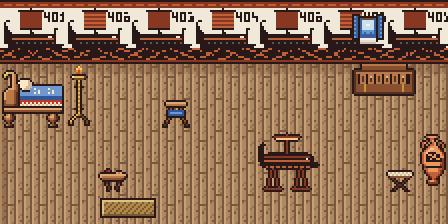
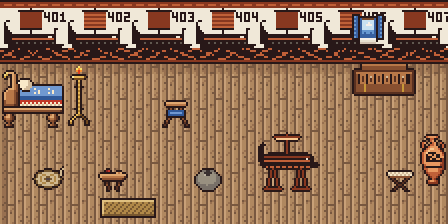
fix(map): stop the inn's heal hanging on a bow its innkeeper can't do
The heal scripts bow the healer with a frame only the healer walker has, so
any other walker hangs the game there, the whiteout respawn included. The
hall-keeper wears the healer's walker; Strophios nods, and the inn's respawn
points at a stand-in that never appears. The frieze's ship numbers are kept out
of the near-duplicate merge, which had made 402 into 406.

Changed region(s): [[0.4062, 0.75, 0.5, 0.875], [0.0625, 0.75, 0.1562, 0.8438]]

diff --git a/tools/ichor/maps/westrooms.py b/tools/ichor/maps/westrooms.py
@@ -94,12 +94,12 @@ ROOMS = {
                    ("sleep_bench_b", 13, 3), ("hydria", 13, 5), ("sleep_bench", 13, 6),
                    ("smoke", 5, 2), ("firepit", 5, 4), ("kindling", 7, 4), ("blankets", 8, 5),
                    ("hearth_kerb", 5, 6),
-                   ("table", 10, 6), ("stool", 9, 6), ("stool", 12, 6), ("bed_roll", 1, 8),
+                   ("table", 10, 6), ("stool", 9, 6), ("stool", 12, 6), ("bed_roll", 1, 2),
                    ("bed_roll", 10, 3),
                    ("honey_cakes", 9, 8), ("mat", 6, 8)],
         "spots": [
             warp([(6, 8), (7, 8)], "MAP_LEBADEIA", 0),
-            npc("the hall-keeper, at the fire (heals)", (7, 5), "south", G + "WOMAN",
+            npc("the hall-keeper, at the fire (heals)", (7, 5), "south", G + "HEALER",
                 "Lebadeia_PilgrimsHall_EventScript_Keeper", local="LOCALID_LEBADEIA_HALL_KEEPER", healer=True),
             npc("a pilgrim on a bench, under a blanket", (0, 3), "east", G + "PILGRIM_BLANKET",
                 "Lebadeia_PilgrimsHall_EventScript_BenchPilgrim", on_furniture=True),
@@ -235,6 +235,9 @@ ROOMS = {
             warp([(6, 11), (7, 11)], "MAP_KIRRHA", 0),
             npc("Strophios, behind the long table (heals)", (6, 2), "south", G + "STROPHIOS",
                 "Kirrha_Inn_EventScript_Strophios", local="LOCALID_KIRRHA_INN_STROPHIOS", healer=True),
+            npc("the whiteout heal's respawn NPC: never shown (Strophios's sprite has no bow frame)", (6, 2), "south",
+                G + "STROPHIOS", "Kirrha_Inn_EventScript_Strophios", local="LOCALID_KIRRHA_INN_RESPAWN",
+                flag="FLAG_SYS_POKEMON_GET"),
             npc("Pylades, by the bundles", (11, 2), "south", G + "PYLADES",
                 "Kirrha_Inn_EventScript_Pylades", local="LOCALID_KIRRHA_INN_PYLADES"),
             npc("Xenodike, beside Pylades (after FLAG_ICHOR_XENODIKE_CAME_DOWN)", (12, 2), "west", G + "XENODIKE",
@@ -386,7 +389,7 @@ ROOMS = {
                  ".............."],
         "stamps": [("kline", 0, 2), ("lampstand", 2, 2), ("chair_back", 5, 3), ("model_ship", 8, 4),
                    ("window", 11, 0), ("tablet_chest", 11, 2), ("amphora", 13, 4), ("stool", 12, 5),
-                   ("table_round", 3, 5), ("mat", 3, 6)],
+                   ("table_round", 3, 5), ("anchor_stone", 6, 5), ("rope_coil", 1, 5), ("mat", 3, 6)],
         "spots": [
             warp([(3, 6), (4, 6)], "MAP_AIGION", 0),
             npc("Tisamenos, reciting to the frieze", (6, 2), "north", G + "TISAMENOS",

diff --git a/tools/ichor/art/westrooms_art.py b/tools/ichor/art/westrooms_art.py
@@ -429,19 +429,33 @@ def floor_planks():
 
 
 def floor_cave(seed=0):
-    """The goatherd's cave half: the hill's own rock, worn level, with
-    beaten earth in the hollows."""
+    """The goatherd's cave half: the hill's own rock, worn into low uneven
+    plates, with beaten earth packed into the cracks between them. A periodic
+    Voronoi so it tiles."""
+    seeds = [(4, 3), (12, 6), (6, 12), (14, 14)] if not seed else [(2, 6), (10, 2), (9, 10), (15, 12)]
+
+    def owner(x, y):
+        best, bi = None, 0
+        for i, (sx, sy) in enumerate(seeds):
+            dx = min(abs(x - sx), 16 - abs(x - sx))
+            dy = min(abs(y - sy), 16 - abs(y - sy))
+            d = dx * dx + dy * dy * 1.4
+            if best is None or d < best:
+                best, bi = d, i
+        return bi
+    own = [[owner(x, y) for x in range(16)] for y in range(16)]
     g = [["3"] * 16 for _ in range(16)]
     for y in range(16):
         for x in range(16):
-            n = noise(x // 4, y // 4, 60 + seed)
-            n2 = noise(x, y, 61 + seed)
-            if n < 0.35:
-                g[y][x] = "E" if n2 < 0.85 else "e"
+            o = own[y][x]
+            if own[y][(x + 1) % 16] != o or own[(y + 1) % 16][x] != o:
+                g[y][x] = "E" if noise(x, y, 62 + seed) < 0.7 else "e"
+            elif own[(y - 1) % 16][x] != o or own[y][(x - 1) % 16] != o:
+                g[y][x] = "4"
             else:
-                g[y][x] = "3" if n2 < 0.8 else "4"
-            if n2 > 0.97:
-                g[y][x] = "2"
+                g[y][x] = "3" if o % 2 else ("3" if noise(x, y, 63 + seed) < 0.6 else "4")
+                if noise(x, y, 64 + seed) < 0.04:
+                    g[y][x] = "2"
     return rows_to_grid("stone", g)
 
 

diff --git a/design/phase3/ROOMS_west.md b/design/phase3/ROOMS_west.md
@@ -21,13 +21,108 @@ Act II batch 2's nine rooms (beats 35–37): Lebadeia's pilgrims' hall, Herkyna'
 tools/ichor/tests/act2_westrooms.sh                                  # after make
 ```
 
-The driver writes each room's `map.bin` and `border.bin`, its `layouts.json` entry, and its `map.json` events and music from the spots listed with the room, so the coordinates live in one place. `scripts.pory` is written by hand. The run checks that every warp, person and readable thing is reachable from the door and read from the tile in front of it, that each healer can be talked to only across the counter in front of them (so the heal's balls land where they're drawn for), that every 8x8 tile takes its colors from one palette, and that each room renders from the compiled tiles over `gTileset_Oikos` exactly as composed.
+The driver writes each room's `map.bin` and `border.bin`, its `layouts.json` entry, and its `map.json` events and music from the spots listed with the room, so the coordinates live in one place. `scripts.pory` is written by hand. The run checks that every warp, person and readable thing is reachable from the door and read from the tile in front of it, that each healer can be talked to only across the counter in front of them (so the heal's balls land where they're drawn for), that every 8x8 tile takes its colors from one palette, and that each room renders from the compiled tiles over `gTileset_Oikos` exactly as composed. It also writes the one-sheet overview, `design/phase3/img/west_interiors_overview.png`.
+
+![The nine rooms](img/west_interiors_overview.png)
+
+## Three secondaries, grouped by what the rooms share
+
+Nine rooms of new art come to about 1,200 tiles, and a secondary holds 504 (door animations own 504-511). Grouping by town put Lebadeia's three rooms at 483 with no room to grow, so the rooms are grouped by the art they share instead, as batch 1's were:
+
+| Secondary | Directory | Rooms | Why together |
+|---|---|---|---|
+| `gTileset_WestStone` | `west_stone` | Lebadeia's pilgrims' hall, the mason's house | the living rock, the rough-laid rubble, cut stone and its dust, votive tablets |
+| `gTileset_WestHarbor` | `west_harbor` | Kirrha's inn, Agora stall, the muleteer's and Thyia's | harbor whitewash with the rope moulding, sailcloth, boats and rope, straw and hay, brooms |
+| `gTileset_WestHomes` | `west_homes` | Herkyna's river house, Tisamenos's and Helike's houses | the three households by the water: river pebbles and reeds, the ship frieze, the hillside |
+
+All three are on the `oikos` primary, use only their own tiles and palettes 6-12, and are compiled by the same script against an empty stand-in primary. The near-duplicate merge (tiles within 2 px of another are redrawn as it) skips two walls whose small differences are the point: the frieze's ship numbers (merged, 402 became 406) and the mason's loose stone.
+
+## Palettes
+
+Seven, shared by all three sets, all multiples of 8 and none an aethos color. Four are oikia's, so its floors and a few of its pieces (the kline, stools, tables, amphorae, pithos, hearth and soot, window, chest, lampstand, herbs, the doormat) are reused exactly as drawn.
+
+| Palette | Colors for |
+|---|---|
+| wall | oikia's plaster, beams, red-ochre dado, shutter blue and sky; Kirrha's sea-blue dado and rope moulding, Lebadeia's river-wave band |
+| floor | oikia's terracotta, boards and limestone; packed earth, the mason's stone dust and Tisamenos's ship's planking are drawn from it |
+| wood | furniture, linen and sailcloth, red and blue cloth, bronze fittings; votive tablets, bundles, the painted sign |
+| clay | pottery, the hearth's stone and fire, soot, white slip; the fire pit and kerb, the black-figure ship frieze, clay votives |
+| nature | leaves, wicker, straw and hay, rope and wool, and three mule greys (in place of oikia's fish silvers) |
+| bronze | oikia's bronze, flame, water and marble: the mill-race and the well, the goat bells, the ship's lantern |
+| stone | rough stone and living rock, timber and tar, lichen, lamp glow: the rock walls, rubble, the shed's tarred planks, the goat pen |
+
+## The looks
+
+- **Lebadeia:** whitewash over a band of Herkyna's river in blue running waves, on a footing of grey Parnassian limestone. The pilgrims' hall is cut into the hill: its back wall is bare rock, every inch of it hung with wooden tablets. The mason's back wall is his own rough-laid rubble.
+- **Kirrha:** harbor whitewash under a tarred, rope-lashed beam, a twisted rope moulding over a sea-blue dado. The stall is a fishing shed of tarred planks; the muleteer's stable end is the underside of his hay loft.
+- **Aigion:** Tisamenos's walls are one long black-figure frieze of numbered ships, like a pot. Helike's house is half rough whitewash with an ochre band, half the living hillside, mossy in its cracks.
+
+## Healing and the respawn
+
+The pilgrims' hall and the inn heal the way the Asclepeion does: `EventScript_PkmnCenterNurse_TakeAndHealPkmn`, talked to across a counter, so the party's balls (placed at a fixed offset from the player) land on the fire: the hall's fire pit, and the inn's hearth. Each room sets its town's respawn on entry. `HEAL_LOCATION_LEBADEIA` respawns at (7,7) in front of the hall-keeper, `HEAL_LOCATION_KIRRHA` at (6,4) in front of Strophios. Their outdoor tiles in `src/data/heal_locations.json` are placeholders, (16,14) and (18,15), for the integrator to set below each door.
+
+**The bow.** The heal scripts bow the healer with `nurse_joy_bow`, which plays a tenth walker frame only the healer walkers have (`sAnimTable_Nurse`); on any other walker it never ends and the game hangs (found by the in-game test). So the hall-keeper is `OBJ_EVENT_GFX_ICHOR_HEALER`, and bows. Strophios has his own sprite without that frame: his talk script nods instead, and the whiteout's heal (which bows whoever the respawn NPC is) points at `LOCALID_KIRRHA_INN_RESPAWN`, a stand-in object that never appears, so the bow is skipped. When the sprites agent gives Strophios a bow frame, point `respawn_npc` at `LOCALID_KIRRHA_INN_STROPHIOS` and drop the stand-in.
+
+## Render-and-critique passes
+
+Every room had at least three: source previews of the whole room (pass 1), the fixes re-rendered (pass 2), and the compiled rooms in the game with their people, from `tools/ichor/tests/act2_westrooms.sh` (pass 3).
+
+### Pass 1: the rooms from source
+
+| Room | What was wrong |
+|---|---|
+| Pilgrims' hall | the votive tablets a noisy scatter of orange chips, not rows; the sleeping benches read as cabinets; the smoke invisible; the rock-cut floor read as grey planks; both sides empty |
+| Herkyna's | the pebble floor dark and busy; the reed mats a saturated checkerboard |
+| Mason's | the rubble wall a regular block wall, the loose stone an obvious pale square; the chisels read as a barred window; the snake relief read as a "2"; the floor empty |
+| Inn | the bundles on their shelf read as books; the blue dado busy with sparkles; the courtyard empty round the well |
+| Agora stall | the upturned boat read as a fish; votives hung over the floor read as clutter lying on it |
+| Muleteer's | the mule a grey blob; the hay loft a woven grid; the straw floor loud; a harness lying on the floor |
+| Thyia's | sparse in the middle |
+| Tisamenos's | the ships read as striped awnings: pale sails, no hulls |
+| Helike's | the cave floor a gravel noise; the goat pen read as a crate of gold |
+
+### Pass 2: fixes, re-rendered
+
+| Room | Change |
+|---|---|
+| Pilgrims' hall | tablets in three tidy rows on pegs and strings, some darkened with age, the newest pale; benches redrawn as beds (pillow, tick, folded blanket); a wavering smoke column; the floor one broad slab per cell; bed rolls on the floor, bundles; the hall narrowed from 16 to 14 |
+| Herkyna's | larger, calmer pebbles; reeds plaited in a herringbone, bound every half-cell; a toy goose and a basket of river stones by the pen |
+| Mason's | rough-laid rubble of every size with pinning stones; the loose stone a stone like the rest with a darker gap round it; chisels hung point-down from a peg rail; the snake rising from its coil, its eye cut; a roughed-out herm and a spoiled drum; the room cut to 12x8 |
+| Inn | squat knotted bundles and corded blanket rolls with name tags; one line of wave in a plain dado; a pilgrim waiting by the well |
+| Agora stall | a full hull, keel up, red stripe at the gunwale, the eye on the bow; the votives on strings down the wall (wreaths in one 8-px column, clay in the other, so no tile mixes palettes), and a trestle table of clay feet and omphaloi |
+| Muleteer's | the mule redrawn lying on its side, head down, long ears up; heaped hay; calmer straw; the harness back on the wall |
+| Thyia's | a chest and a wool basket |
+| Tisamenos's | bold black hulls with eyes and red strakes, dark sails, oars down into a black sea with red wave lines |
+| Helike's | the cave floor worn plates with earth in the cracks; trodden brown straw; the cradle drawn into the pen in the stone palette (overlaid, it mixed palettes in its tiles) |
+
+### Pass 3: in the game
+
+Read from `build/test_westrooms/shots/` (a quickstart save, a Halcyling and a Lophops, every room toured with its people, every service played).
+
+<!-- westrooms: pass 3 -->
+
+## Stubs and deviations
+
+| Tag | Where | What waits |
+|---|---|---|
+| `ICHOR_STUB_KEY_ITEMS` | Pylades's fig | `ITEM_PYLADES_FIG`; `FLAG_ICHOR_PYLADES_FIG` carries it, with a received message |
+| `ICHOR_STUB_RITES` | Thyia's laurel | Act II's laurel indices: `FLAG_ICHOR_THYIA_LAUREL_TODAY` (bank 0x1B5) stands in for her daily flag, so until the swap she gives one sprig in all |
+| `ICHOR_STUB_AETHOS_DEX` | Halcyling (Goose), Melisseer, Lophops, Kerazap, Galenyon | the dex |
+
+Deviations, closest reading taken:
+- **Thyia's name box reads THYIA.** SCRIPT.md tagged her lines PHEMONIS, a draft name; the director confirms THYIA.
+- **Aigion's Soothe Bell** sets `FLAG_ICHOR_GOT_SOOTHE_BELL_AIGION`, not SCRIPT.md's `FLAG_ICHOR_GOT_SOOTHE_BELL` (Act I's, Aigon's bell in Akti). Herkyna's Mystic Water likewise sets `FLAG_ICHOR_GOT_MYSTIC_WATER_HERKYNA`, not Act I's `FLAG_ICHOR_GOT_MYSTIC_WATER`.
+- **KASSOTIS's level** is the offered Lophops's, as every in-game trade's is (SCRIPT.md says Lv 30). She is female (personality 0x2510) and holds a Mental Herb. The muleteer has no name in SCRIPT.md; her OT is OUREUS, Homer's word for a mule, the harbor's name for him.
+- **Xenodike at the inn** is hidden by `FLAG_TEMP_1` (set on entry until `FLAG_ICHOR_XENODIKE_CAME_DOWN`), not Part 8's `FLAG_ICHOR_HIDE_XENODIKE_INN`, to save a bank flag; Goose in Herkyna's pen likewise.
+- **Lines of my own,** short and in the rooms' voices, where SCRIPT.md gives none: the second pilgrim in the hall (a weaver), the inn's pilgrim by the well, Pylades's reminder and after-lines, Xenodike's two lines at the inn, Herkyna's after-line, Agamedes's line on the loose stone once found, the muleteer's refusals, the Melisseer's and Kerazap's cries, Helike's after-line, and every sign. The pilgrims' hall's three pilgrims of beat 35B sit outside on the steps (the parnassos agent's).
+- **Two hidden items** the rooms' stories suggest (vanilla flags 0x334-0x335, the director's range): a pilgrim's coin down the inn's well (Relic Copper, the game's Bronze Obol), asked of the well instead of the god; and Stardust in the mason's drift of stone dust.
+- **The hall-keeper wears the healer's walker,** for the bow (above).
 
 <!-- westrooms: begin generated -->
 
 - `gTileset_WestStone` (`data/tilesets/secondary/west_stone`): **120** metatiles of 512, **361** tiles of 504, palettes 6-12. Sheet: `design/phase3/img/west_stone_sheet.png`.
 - `gTileset_WestHarbor` (`data/tilesets/secondary/west_harbor`): **176** metatiles of 512, **457** tiles of 504, palettes 6-12. Sheet: `design/phase3/img/west_harbor_sheet.png`.
-- `gTileset_WestHomes` (`data/tilesets/secondary/west_homes`): **152** metatiles of 512, **399** tiles of 504, palettes 6-12. Sheet: `design/phase3/img/west_homes_sheet.png`.
+- `gTileset_WestHomes` (`data/tilesets/secondary/west_homes`): **160** metatiles of 512, **421** tiles of 504, palettes 6-12. Sheet: `design/phase3/img/west_homes_sheet.png`.
 
 ### The pilgrims' hall, Lebadeia
 
@@ -56,7 +151,7 @@ Walk map: `#` blocked, `.` open; digits and letters are the spots below (a bg ev
 | # | Kind | Tile | Detail | What |
 |---|---|---|---|---|
 | 1 | warp | (6,8), (7,8) | to `MAP_LEBADEIA` warp 0 | the exit |
-| 2 | npc | (7,5) | faces south, `OBJ_EVENT_GFX_ICHOR_WOMAN` | the hall-keeper, at the fire (heals) |
+| 2 | npc | (7,5) | faces south, `OBJ_EVENT_GFX_ICHOR_HEALER` | the hall-keeper, at the fire (heals) |
 | 3 | npc | (0,3) | faces east, `OBJ_EVENT_GFX_ICHOR_PILGRIM_BLANKET` | a pilgrim on a bench, under a blanket |
 | 4 | npc | (3,5) | faces east, `OBJ_EVENT_GFX_ICHOR_PILGRIM_BLANKET_2` | a pilgrim drying out by the fire |
 | 5 | bg | (2,1) | read from (2,2) facing north | the votive wall |
@@ -158,12 +253,12 @@ Walk map: `#` blocked, `.` open; digits and letters are the spots below (a bg ev
 ```
     012345678901234
   0 ###############
-  1 #########78####
-  2 ...###2#...34..
-  3 ##...6####...##
-  4 #b........#..##
-  5 ##....#c.....##
-  6 ##....9a.5...##
+  1 #########89####
+  2 ...###2#...45..
+  3 ##...7####...##
+  4 #c........#..##
+  5 ##....#d.....##
+  6 ##....ab.6...##
   7 ##...........##
   8 ##...........##
   9 #.............#
@@ -175,16 +270,17 @@ Walk map: `#` blocked, `.` open; digits and letters are the spots below (a bg ev
 |---|---|---|---|---|
 | 1 | warp | (6,11), (7,11) | to `MAP_KIRRHA` warp 0 | the exit |
 | 2 | npc | (6,2) | faces south, `OBJ_EVENT_GFX_ICHOR_STROPHIOS` | Strophios, behind the long table (heals) |
-| 3 | npc | (11,2) | faces south, `OBJ_EVENT_GFX_ICHOR_PYLADES` | Pylades, by the bundles |
-| 4 | npc | (12,2) | faces west, `OBJ_EVENT_GFX_ICHOR_XENODIKE` | Xenodike, beside Pylades (after FLAG_ICHOR_XENODIKE_CAME_DOWN) |
-| 5 | npc | (9,6) | faces west, `OBJ_EVENT_GFX_ICHOR_PILGRIM_BLANKET_3` | a pilgrim sitting by the well, waiting |
-| 6 | bg | (5,3) | read from (5,4) facing north | the painted sign, over the hearth (read across the table) |
-| 7 | bg | (9,1) | read from (9,2) facing north | the bundles with their name tags |
-| 8 | bg | (10,1) | read from (10,2) facing north | the bundles with their name tags |
-| 9 | bg | (6,6) | read from (6,7) facing north | the well |
-| a | bg | (7,6) | read from (7,7) facing north | the well |
-| b | bg | (1,4) | read from (2,4) facing west | an alcove |
-| c | hidden | (7,5) | `ITEM_RELIC_COPPER`, `FLAG_ICHOR_HIDDEN_KIRRHA_INN_RELIC_COPPER` | a pilgrim's coin down the well, asked of the well instead of the god |
+| 3 | npc | (6,2) | faces south, `OBJ_EVENT_GFX_ICHOR_STROPHIOS` | the whiteout heal's respawn NPC: never shown (Strophios's sprite has no bow frame) |
+| 4 | npc | (11,2) | faces south, `OBJ_EVENT_GFX_ICHOR_PYLADES` | Pylades, by the bundles |
+| 5 | npc | (12,2) | faces west, `OBJ_EVENT_GFX_ICHOR_XENODIKE` | Xenodike, beside Pylades (after FLAG_ICHOR_XENODIKE_CAME_DOWN) |
+| 6 | npc | (9,6) | faces west, `OBJ_EVENT_GFX_ICHOR_PILGRIM_BLANKET_3` | a pilgrim sitting by the well, waiting |
+| 7 | bg | (5,3) | read from (5,4) facing north | the painted sign, over the hearth (read across the table) |
+| 8 | bg | (9,1) | read from (9,2) facing north | the bundles with their name tags |
+| 9 | bg | (10,1) | read from (10,2) facing north | the bundles with their name tags |
+| a | bg | (6,6) | read from (6,7) facing north | the well |
+| b | bg | (7,6) | read from (7,7) facing north | the well |
+| c | bg | (1,4) | read from (2,4) facing west | an alcove |
+| d | hidden | (7,5) | `ITEM_RELIC_COPPER`, `FLAG_ICHOR_HIDDEN_KIRRHA_INN_RELIC_COPPER` | a pilgrim's coin down the well, asked of the well instead of the god |
 
 ### The Agora stall, Kirrha
 
@@ -303,7 +399,7 @@ Walk map: `#` blocked, `.` open; digits and letters are the spots below (a bg ev
   2 ###...2....#6.
   3 ###..7........
   4 ........5#...#
-  5 ...#....##..##
+  5 .#.#..#.##..##
   6 ...11.........
 ```
 
